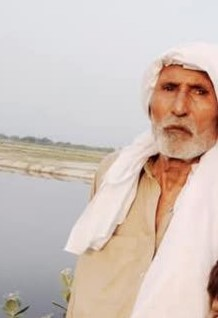
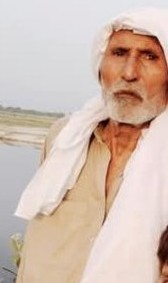
feat: add profile pages and images for new legends

diff --git a/app/legends/page.tsx b/app/legends/page.tsx
@@ -315,6 +315,18 @@ const legends: Legend[] = [
       "ان کی خدمات خرم ہٹھاڑ کی سماجی زندگی کا قیمتی حصہ ہیں۔ وہ ایک محترم اور یادگار شخصیت کے طور پر یاد رکھے جاتے ہیں۔",
     ],
   },
+  {
+    name: "چوہدری عبدالرشید تھانیدار",
+    image: "/legends/Chuadhry Abdul Rasheed Thanedar.jpg",
+    role: "سماجی شخصیت",
+    village: "خرم ہٹھاڑ",
+    lifespan: "یادگار شخصیت",
+    cast: "کمبوہ",
+    bio: [
+      "چوہدری عبدالرشید تھانیدار اپنی فرض شناسی، جرأت اور قانون کی پاسداری کے ساتھ ساتھ سماجی خدمات کے حوالے سے نمایاں تھے۔ ایک بااثر شخصیت ہونے کے ناطے انہوں نے ہمیشہ انصاف اور لوگوں کی بھلائی کو ترجیح دی۔",
+      "ان کا رعب دار مگر ہمدردانہ انداز خرم ہٹھاڑ کے لوگوں کے لیے باعثِ فخر اور کشش کا باعث تھا۔ ان کی یاد اور خدمات ہمیشہ عزت کے ساتھ محفوظ رہیں گی۔",
+    ],
+  },
 ];
 
 export default function Legends() {